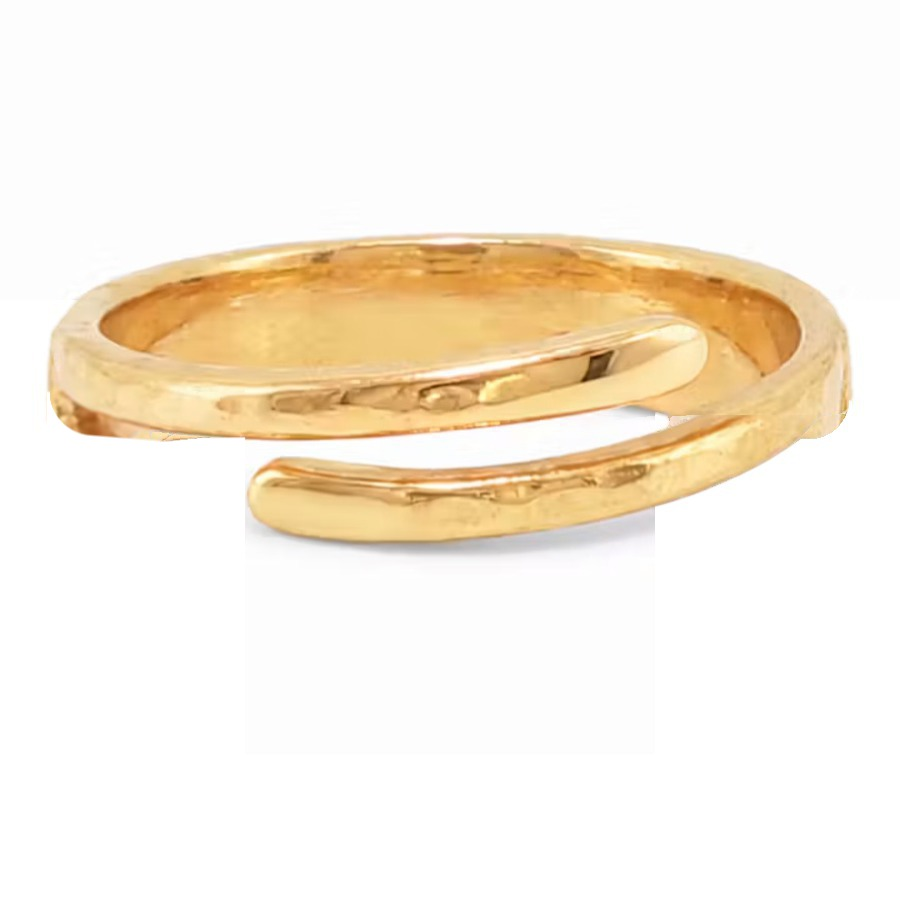
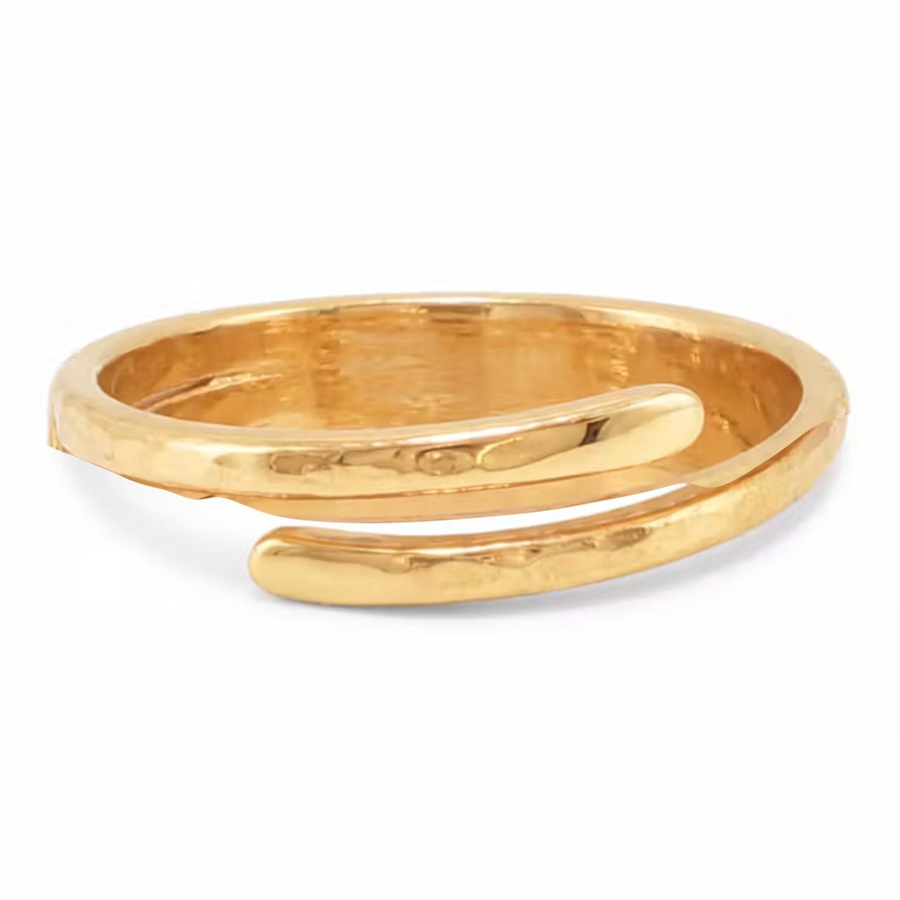
One ring for every size: 1-4 wraps are now the approved 5-wrap ring with wires lifted out along its seams
Each wrap count used a different render, so width, band thickness and camera angle
changed every time a wrap was added or removed. All five bases now share the same
ring, and stones keep their spots; the lowest stone sits clear of the bottom diamond.

Changed region(s): [[0.0311, 0.2489, 0.9644, 0.7156]]

diff --git a/index.html b/index.html
@@ -1086,11 +1086,11 @@ const PHOTO_STONES = {
    stones laid on the wire, so any wrap can be plain, twinned, recoloured or resized. */
 const PLAIN = {1:'img/studio/plain-1.jpg', 2:'img/studio/plain-2.jpg', 3:'img/studio/plain-3.jpg', 4:'img/studio/plain-4.jpg', 5:'img/studio/plain-5.jpg'};
 /* where her stones sit on each plain ring (mapped from her photo) */
-const PLAIN_STONES = {
-  1:{wraps:[{x:515,y:398,r:40,m:10}], bottom:{x:412,y:545,w:330,h:190,m:3,shape:'pear',turn:true,tip:{x:247,y:494}}},
-  2:{wraps:[{x:378,y:402,r:40,m:0},{x:190,y:505,r:40,m:0}], bottom:{x:412,y:700,w:330,h:190,m:3,shape:'pear',turn:true,tip:{x:247,y:637}}},
-  3:{wraps:[{x:378,y:405,r:40,m:0},{x:190,y:482,r:40,m:0},{x:625,y:548,r:40,m:6}], bottom:{x:412,y:700,w:330,h:190,m:3,shape:'pear',turn:true,tip:{x:247,y:628}}},
-  4:{wraps:[{x:378,y:180,r:40,m:0},{x:215,y:296,r:40,m:0},{x:535,y:410,r:40,m:6},{x:283,y:545,r:40,m:7}], bottom:{x:412,y:717,w:330,h:190,m:3,shape:'pear',turn:true,tip:{x:249,y:655}}},
+const PLAIN_STONES = {   // every size is the same ring (the 5-wrap) with wires lifted out, so stones keep their spots
+  1:{wraps:[{x:540,y:462,r:40,m:0}], bottom:{x:380,y:572,w:330,h:190,m:3,shape:'pear',turn:true,tip:{x:253,y:566}}},
+  2:{wraps:[{x:440,y:433,r:40,m:0},{x:190,y:518,r:40,m:0}], bottom:{x:380,y:608,w:330,h:190,m:3,shape:'pear',turn:true,tip:{x:253,y:602}}},
+  3:{wraps:[{x:440,y:394,r:40,m:0},{x:190,y:479,r:40,m:0},{x:600,y:552,r:40,m:6}], bottom:{x:380,y:648,w:330,h:190,m:3,shape:'pear',turn:true,tip:{x:253,y:642}}},
+  4:{wraps:[{x:440,y:355,r:40,m:0},{x:190,y:440,r:40,m:0},{x:535,y:528,r:40,m:6},{x:680,y:578,r:40,m:7}], bottom:{x:380,y:686,w:330,h:190,m:3,shape:'pear',turn:true,tip:{x:253,y:680}}},
   5:{wraps:[{x:440,y:315,r:40,m:0},{x:190,y:400,r:40,m:0},{x:535,y:488,r:40,m:6},{x:283,y:565,r:40,m:7},{x:655,y:605,r:40,m:10}], bottom:{x:380,y:726,w:330,h:190,m:3,shape:'pear',turn:true,tip:{x:253,y:720}}},
 };   // n -> plain ring photo, once it exists
 const SRC = {src:'img/studio/gold-5.jpg', n:5, stone:{x:535, y:355, r:40, m:6}};   // her ruby, with its prongs
